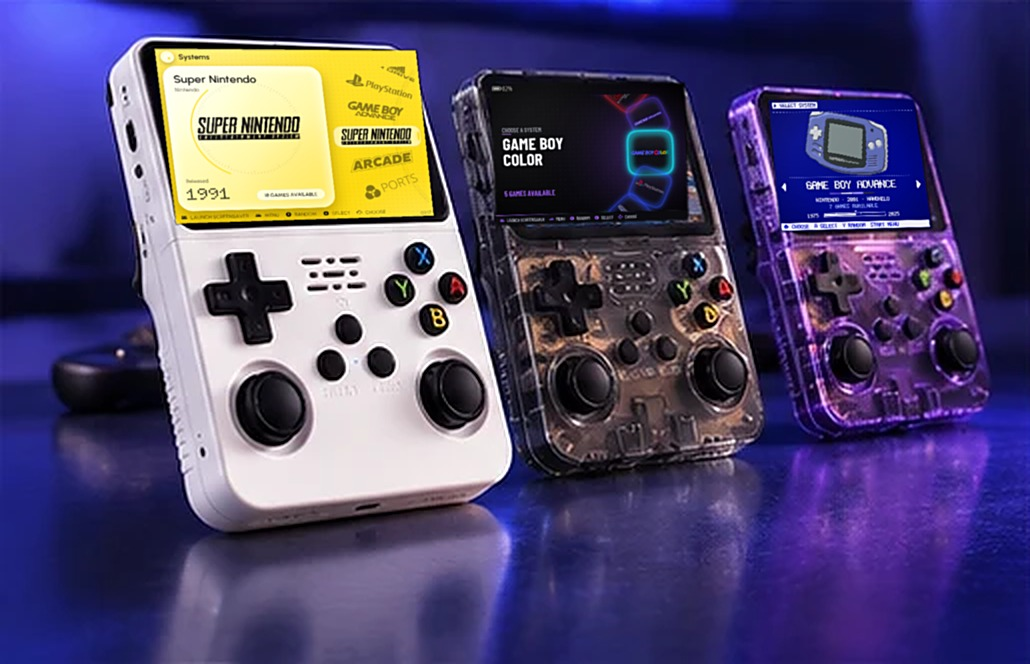
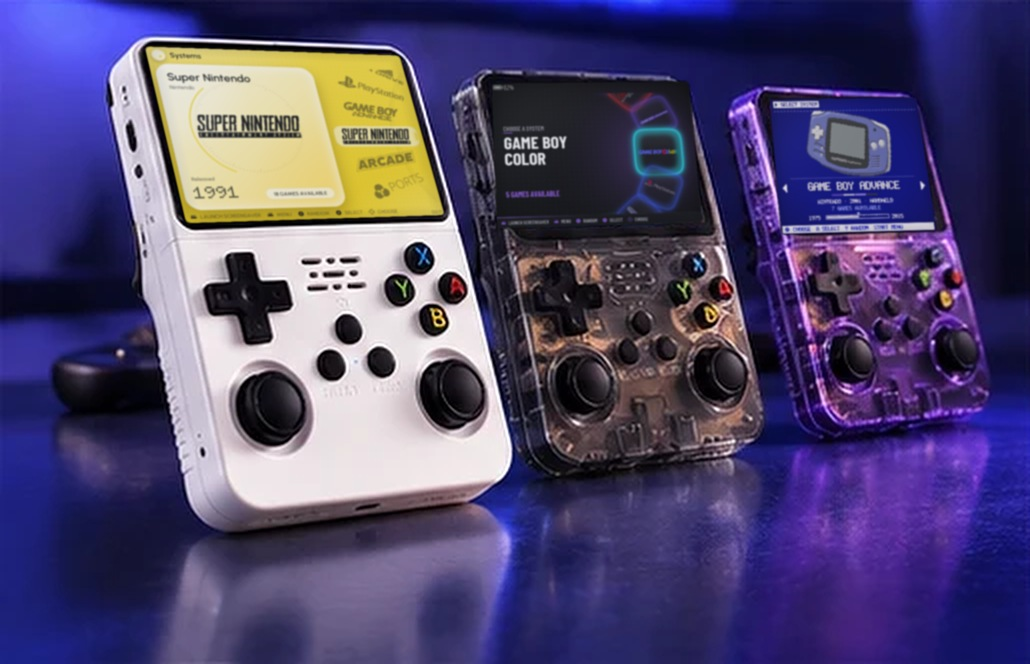
Showcase photos: detect each screen's glass panel and fit the display inside it
composite_photos.py now segments the glass inside the white frame, fits a
line to each side, insets the active display by perspective, rounds its
corners and tones it to the photo.

Claude-Session: https://claude.ai/code/session_012YBeFWiQAfsThBpmGfRTHW

diff --git a/hqbit-brand/tools/composite_photos.py b/hqbit-brand/tools/composite_photos.py
@@ -1,78 +1,161 @@
 #!/usr/bin/env python3
-"""Put theme screenshots onto the R36S screens in product photos (perspective warp + glass sheen).
+"""Place theme screenshots onto the R36S screens in product photos.
 
 usage: composite_photos.py <collage.png> <out dir>
-Screen quads are in collage pixel coordinates: top-left, top-right, bottom-right, bottom-left.
+
+For each screen:
+1. Find the glass panel: the non-white region inside the device's white frame, grown from a seed quad
+   (for clear/purple shells, the lit display itself). Fit a straight line to each side of its outline and
+   intersect them, which gives the panel's corners without the rounding.
+2. The active display sits inside the glass with a thin black border; its corners are found through the
+   panel's homography, so the inset follows the perspective.
+3. Warp the screenshot (with rounded corners) into the active area at 4x, tone it to the photo (lifted
+   blacks, softer contrast, a tint from the scene), darken its edges slightly, and add a faint glass sheen.
+   The photo's own bezel and rim reflections stay untouched.
 """
 import os
 import sys
 
+import cv2
 import numpy as np
-from PIL import Image, ImageDraw, ImageEnhance, ImageFilter
 
 ROOT = os.path.dirname(os.path.dirname(os.path.abspath(__file__)))
 SCR = os.path.join(ROOT, "showcase", "screens")
-SRC, OUT = sys.argv[1], sys.argv[2]
-os.makedirs(OUT, exist_ok=True)
-UP = 3  # supersampling factor for the warp; output is saved at 2x the collage size
+UP = 4
 
+# seed quads (TL, TR, BR, BL) measured on the collage; mode "glass" = white frame, "lit" = transparent shell
 PANELS = {
-    # name: (panel box in the collage, [(screen quad, screenshot)])
-    "volta": ((0, 0, 752, 574), [([(336, 69), (577, 71), (581, 257), (338, 258)], "volta/system-horizontal-dark.png")]),
-    "vcr": ((767, 310, 1254, 623), [([(916, 342), (1075, 330), (1079, 463), (913, 467)], "vcr/system-snes.png")]),
-    "neonglow": ((817, 922, 1254, 1254), [([(969, 967), (1128, 966), (1129, 1077), (969, 1079)], "neonglow/system-vertical.png")]),
-    "deskos": ((627, 632, 1254, 910), [([(859, 689), (991, 657), (1012, 747), (881, 778)], "deskos/system-classic.png")]),
+    "volta": ((0, 0, 752, 574), [("glass", [(336, 69), (577, 71), (581, 257), (338, 258)], "volta/system-horizontal-dark.png")]),
+    "vcr": ((767, 310, 1254, 623), [("glass", [(916, 342), (1075, 330), (1079, 463), (913, 467)], "vcr/system-snes.png")]),
+    "neonglow": ((817, 922, 1254, 1254), [("glass", [(969, 967), (1128, 966), (1129, 1077), (969, 1079)], "neonglow/system-vertical.png")]),
+    "deskos": ((627, 632, 1254, 910), [("glass", [(859, 689), (991, 657), (1012, 747), (881, 778)], "deskos/system-classic.png")]),
     "collection": ((0, 922, 515, 1254), [
-        ([(77, 946), (208, 947), (217, 1030), (88, 1034)], "volta/system-wheel-citrine.png"),
-        ([(245, 964), (342, 963), (344, 1032), (248, 1035)], "neonglow/system-wheel.png"),
-        ([(384, 972), (457, 971), (466, 1036), (390, 1038)], "vcr/system-gba-navy.png"),
+        ("glass", [(77, 946), (208, 947), (217, 1030), (88, 1034)], "volta/system-wheel-citrine.png"),
+        ("lit", [(245, 963), (344, 962), (351, 1033), (248, 1036)], "neonglow/system-wheel.png"),
+        ("lit", [(384, 971), (458, 970), (468, 1037), (390, 1039)], "vcr/system-gba-navy.png"),
     ]),
 }
+INSET = (0.027, 0.034)        # active display inside the glass panel (fraction of width, height)
 
 
-def coeffs(dst, src):
-    """Perspective coefficients mapping output (dst) points to input (src) points, for Image.transform."""
-    a = []
-    b = []
-    for (x, y), (u, v) in zip(dst, src):
-        a.append([x, y, 1, 0, 0, 0, -u * x, -u * y]); b.append(u)
-        a.append([0, 0, 0, x, y, 1, -v * x, -v * y]); b.append(v)
-    return np.linalg.solve(np.array(a, float), np.array(b, float)).tolist()
+def region_hull(img, seed, mode):
+    q = np.array(seed, np.float32)
+    x0, y0 = (q.min(0) - 30).astype(int)
+    x1, y1 = (q.max(0) + 30).astype(int)
+    x0, y0 = max(x0, 0), max(y0, 0)
+    roi = img[y0:y1, x0:x1]
+    hsv = cv2.cvtColor(roi, cv2.COLOR_BGR2HSV).astype(int)
+    seedm = np.zeros(roi.shape[:2], np.uint8)
+    cv2.fillPoly(seedm, [(q - [x0, y0]).astype(np.int32)], 1)
+    if mode == "glass":
+        cand = ~((hsv[..., 2] > 150) & (hsv[..., 1] < 90))
+        grow = cv2.dilate(seedm, np.ones((15, 15), np.uint8))
+    else:  # lit display on a transparent shell: brighter than the dark bezel around it
+        cand = hsv[..., 2] > 55
+        grow = cv2.dilate(seedm, np.ones((7, 7), np.uint8))
+    cand = (cand & (grow > 0)).astype(np.uint8)
+    n, lab = cv2.connectedComponents(cand)
+    best = max(range(1, n), key=lambda i: ((lab == i) & (seedm == 1)).sum())
+    m = (lab == best).astype(np.uint8) * 255
+    m = cv2.morphologyEx(m, cv2.MORPH_CLOSE, np.ones((9, 9), np.uint8))
+    cs, _ = cv2.findContours(m, cv2.RETR_EXTERNAL, cv2.CHAIN_APPROX_NONE)
+    hull = cv2.convexHull(max(cs, key=cv2.contourArea)).reshape(-1, 2).astype(np.float32) + [x0, y0]
+    dense = []                                   # resample the hull every 0.5 px so straight sides have points
+    for p0, p1 in zip(hull, np.roll(hull, -1, 0)):
+        n = max(2, int(np.linalg.norm(p1 - p0) * 2))
+        dense.append(p0 + (p1 - p0) * np.linspace(0, 1, n, endpoint=False)[:, None])
+    return np.concatenate(dense).astype(np.float32)
 
 
-def composite(name):
+def fit_quad(hull, seed):
+    """Fit a line to each side of the outline (ignoring the rounded corners) and intersect them."""
+    s = np.array(seed, np.float32)
+    lines = []
+    for i in range(4):
+        a, b = s[i], s[(i + 1) % 4]
+        d = b - a
+        L = np.linalg.norm(d)
+        t = ((hull - a) @ d) / (L * L)
+        nrm = np.array([-d[1], d[0]]) / L
+        dist = np.abs((hull - a) @ nrm)
+        sel = hull[(t > 0.18) & (t < 0.82) & (dist < 0.12 * L)]
+        vx, vy, x, y = cv2.fitLine(sel, cv2.DIST_HUBER, 0, 0.01, 0.01).ravel()
+        lines.append((np.array([x, y]), np.array([vx, vy])))
+    pts = []
+    for i in range(4):                       # corner i lies between side i-1 and side i
+        (p1, d1), (p2, d2) = lines[i - 1], lines[i]
+        t = np.linalg.solve(np.array([d1, -d2]).T, p2 - p1)
+        pts.append(p1 + t[0] * d1)
+    return np.array(pts, np.float32)
+
+
+def inset_quad(quad, fx, fy):
+    H = cv2.getPerspectiveTransform(np.float32([[0, 0], [1, 0], [1, 1], [0, 1]]), quad)
+    unit = np.float32([[fx, fy], [1 - fx, fy], [1 - fx, 1 - fy], [fx, 1 - fy]]).reshape(-1, 1, 2)
+    return cv2.perspectiveTransform(unit, H).reshape(-1, 2)
+
+
+def tone(shot, tint):
+    s = shot.astype(np.float32) / 255
+    s = 0.035 + s * 0.93                                   # lifted blacks, softer whites, like a lit LCD in a photo
+    s = np.clip((s - 0.5) * 0.96 + 0.5, 0, 1)
+    return s * 0.94 + tint * 0.06                          # a hint of the room's colour
+
+
+def rounded_mask(w, h, r):
+    m = np.zeros((h, w), np.uint8)
+    cv2.rectangle(m, (r, 0), (w - r, h), 255, -1)
+    cv2.rectangle(m, (0, r), (w, h - r), 255, -1)
+    for cx, cy in ((r, r), (w - r, r), (w - r, h - r), (r, h - r)):
+        cv2.circle(m, (cx, cy), r, 255, -1, lineType=cv2.LINE_AA)
+    return m
+
+
+def composite(src, out_dir, name):
     box, screens = PANELS[name]
-    col = Image.open(SRC).convert("RGB")
-    panel = col.crop(box)
-    big = panel.resize((panel.width * UP, panel.height * UP), Image.LANCZOS).convert("RGBA")
-    for quad, shot in screens:
-        q = [((x - box[0]) * UP, (y - box[1]) * UP) for x, y in quad]
-        img = Image.open(os.path.join(SCR, shot)).convert("RGB")
-        img = ImageEnhance.Color(img).enhance(1.08)
-        img = ImageEnhance.Brightness(img).enhance(1.04)
-        w, h = img.size
-        warped = img.transform(big.size, Image.PERSPECTIVE, coeffs(q, [(0, 0), (w, 0), (w, h), (0, h)]), Image.BICUBIC)
-        mask = Image.new("L", big.size, 0)
-        ImageDraw.Draw(mask).polygon(q, fill=255)
-        mask = mask.filter(ImageFilter.GaussianBlur(UP * 0.6))
-        warped = warped.filter(ImageFilter.GaussianBlur(UP * 0.35))       # match the photo's softness
-        # glass: a soft diagonal sheen plus the original screen's brightest reflections
-        xs, ys = zip(*q)
-        sheen = Image.new("L", big.size, 0)
-        sd = ImageDraw.Draw(sheen)
-        x0, y0, x1, y1 = min(xs), min(ys), max(xs), max(ys)
-        sd.polygon([(x0, y0), (x0 + (x1 - x0) * 0.55, y0), (x0, y0 + (y1 - y0) * 0.7)], fill=34)
-        sheen = Image.composite(sheen.filter(ImageFilter.GaussianBlur(UP * 18)), Image.new("L", big.size, 0), mask)
-        layer = Image.composite(warped.convert("RGBA"), big, mask)
-        white = Image.new("RGBA", big.size, (255, 255, 255, 255))
-        layer = Image.composite(white, layer, sheen)
-        big = layer
-    out = big.convert("RGB").resize((panel.width * 2, panel.height * 2), Image.LANCZOS)
-    out = out.filter(ImageFilter.UnsharpMask(radius=1.6, percent=60, threshold=2))
-    out.save(os.path.join(OUT, f"hqbit-photo-{name}.jpg"), quality=92)
-    return out
+    col = cv2.imread(src)
+    panel = col[box[1]:box[3], box[0]:box[2]]
+    big = cv2.resize(panel, None, fx=UP, fy=UP, interpolation=cv2.INTER_LANCZOS4).astype(np.float32) / 255
+    out = big.copy()
+    size = (big.shape[1], big.shape[0])
+    quads = []
+    for mode, seed, shot_path in screens:
+        if mode == "glass":
+            active = inset_quad(fit_quad(region_hull(col, seed, mode), seed), *INSET)
+        else:                                    # transparent shells: edges too faint to detect, use the measured quad
+            active = np.array(seed, np.float32)
+        quads.append(active)
+        act = ((active - [box[0], box[1]]) * UP + (UP - 1) / 2).astype(np.float32)
+        shot = cv2.imread(os.path.join(SCR, shot_path))
+        sh, sw = shot.shape[:2]
+        shot = cv2.resize(shot, (sw * 3, sh * 3), interpolation=cv2.INTER_CUBIC)
+        sh, sw = shot.shape[:2]
+        tint = cv2.GaussianBlur(big, (0, 0), 40)[int(act[:, 1].mean()), int(act[:, 0].mean())]
+        s = tone(shot, tint)
+        yy, xx = np.mgrid[0:sh, 0:sw].astype(np.float32)
+        edge = np.minimum(np.minimum(xx, sw - 1 - xx) / sw, np.minimum(yy, sh - 1 - yy) / sh)
+        s *= (0.9 + 0.1 * np.clip(edge / 0.06, 0, 1))[..., None]           # slight falloff at the edges
+        rm = rounded_mask(sw, sh, int(0.025 * sw)).astype(np.float32) / 255
+        H = cv2.getPerspectiveTransform(np.float32([[0, 0], [sw, 0], [sw, sh], [0, sh]]), act)
+        ws = cv2.warpPerspective(s, H, size, flags=cv2.INTER_AREA)
+        wm = cv2.warpPerspective(rm, H, size, flags=cv2.INTER_LINEAR)
+        ws = cv2.GaussianBlur(ws, (0, 0), UP * 0.45)                         # match the photo's softness
+        wm = cv2.GaussianBlur(wm, (0, 0), UP * 0.5)[..., None]
+        tl, tr, br, bl = act
+        band = np.float32([tl, tl + (tr - tl) * 0.62, tl + (tr - tl) * 0.18 + (bl - tl) * 0.55, tl + (bl - tl) * 0.75])
+        g = np.zeros(size[::-1], np.float32)
+        cv2.fillPoly(g, [band.astype(np.int32)], 0.07)
+        g = cv2.GaussianBlur(g, (0, 0), UP * 14)[..., None] * wm             # soft diagonal glass sheen
+        layer = ws * wm + out * (1 - wm)
+        out = layer + g * (1 - layer)
+    res = cv2.resize(np.clip(out * 255, 0, 255).astype(np.uint8), (panel.shape[1] * 2, panel.shape[0] * 2), interpolation=cv2.INTER_AREA)
+    res = cv2.addWeighted(res, 1.35, cv2.GaussianBlur(res, (0, 0), 1.2), -0.35, 0)
+    cv2.imwrite(os.path.join(out_dir, f"hqbit-photo-{name}.jpg"), res, [cv2.IMWRITE_JPEG_QUALITY, 93])
+    return quads
 
 
-for n in PANELS:
-    composite(n)
-    print(n)
+if __name__ == "__main__":
+    SRC, OUT = sys.argv[1], sys.argv[2]
+    os.makedirs(OUT, exist_ok=True)
+    for n in PANELS:
+        print(n, [[(round(float(x), 1), round(float(y), 1)) for x, y in q] for q in composite(SRC, OUT, n)])
